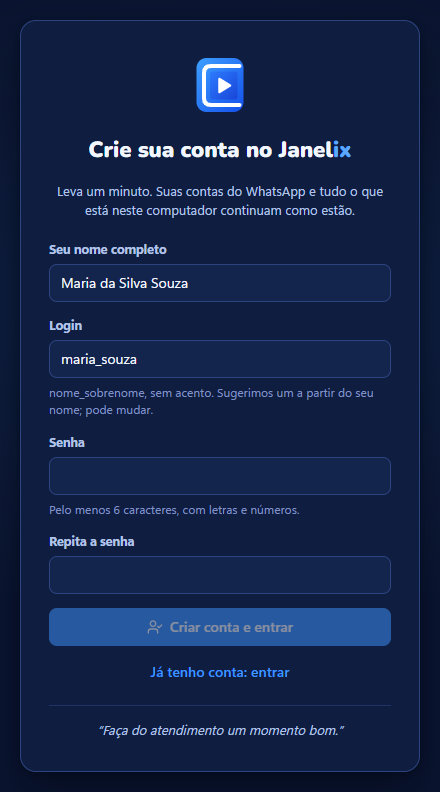
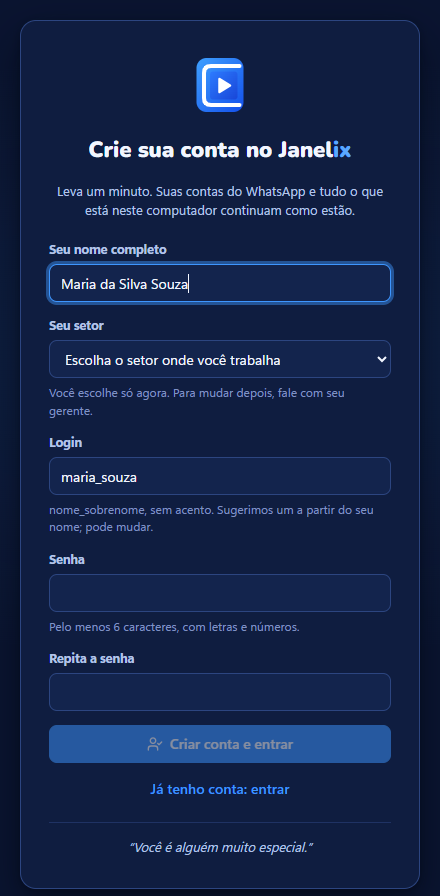
Versão 2.0.16

diff --git a/index.html b/index.html
@@ -160,11 +160,12 @@
               </div>
             </li>
             <li>
-              <figure class="vitrine-print"><img src="assets/prints/conta.png" alt="Tela Crie sua conta no Janelix com nome, login sugerido maria_souza, senha e a frase do dia" width="440" height="792" loading="lazy" /></figure>
+              <figure class="vitrine-print"><img src="assets/prints/conta.png" alt="Tela Crie sua conta no Janelix com nome, escolha do setor, login sugerido maria_souza, senha e a frase do dia" width="440" height="896" loading="lazy" /></figure>
               <div class="vitrine-texto">
                 <h3>Sua conta no Janelix</h3>
                 <p>Cada pessoa da equipe entra com o próprio login. Você digita o nome e o Janelix já sugere o login, como maria_souza.</p>
                 <ul>
+                  <li>Na hora de criar a conta, você escolhe o seu setor. Para mudar depois, é só falar com o seu gerente.</li>
                   <li>Entrou uma vez, o Janelix lembra: nas próximas vezes abre direto nas conversas.</li>
                   <li>Quem já usava não perde nada: contas do WhatsApp e dados continuam no computador.</li>
                   <li>Todo dia aparece uma frase nova para começar bem.</li>
@@ -444,12 +445,9 @@
             <p class="final-req">Para Windows 10 e 11 · atualiza sozinho</p>
           </div>
           <div class="novidades">
-            <h3>Novidades da versão <span id="v-num">2.0.15</span></h3>
+            <h3>Novidades da versão <span id="v-num">2.0.16</span></h3>
             <ul id="notas">
-              <li>Cópia protegida das conversas no servidor: trocou de computador, entre com o seu login e as conversas dos últimos 30 dias voltam.</li>
-              <li>Só você abre essa cópia, com a sua senha ou com a chave de recuperação, que aparece uma vez para você anotar.</li>
-              <li>Quem já usa o Janelix confirma a senha uma única vez para ligar a cópia. Em Configurações › Privacidade dá para ver a última cópia.</li>
-              <li>Atenção: depois desta versão, não volte para uma versão anterior do Janelix. A versão antiga não entende o histórico novo e o apagaria deste computador.</li>
+              <li>Ao criar a conta, você escolhe o seu setor. Ele já entra direto no setor certo; para mudar depois, fale com o seu gerente.</li>
             </ul>
           </div>
         </div>
